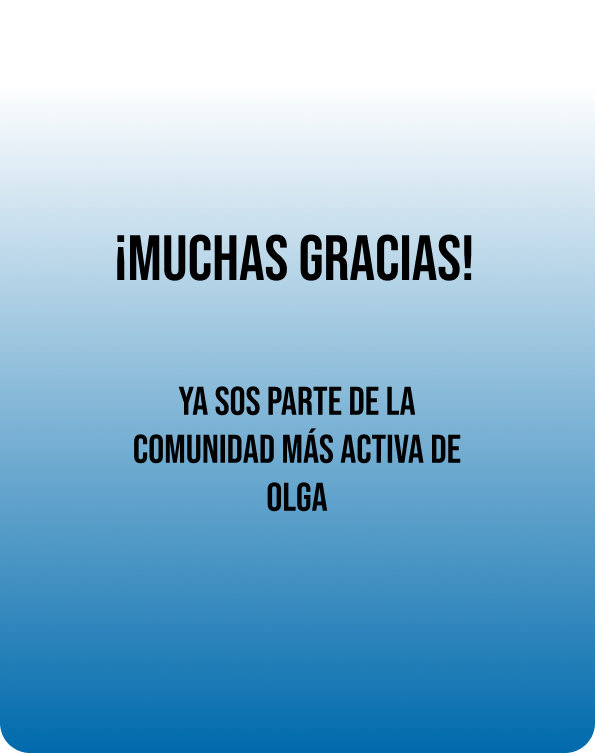
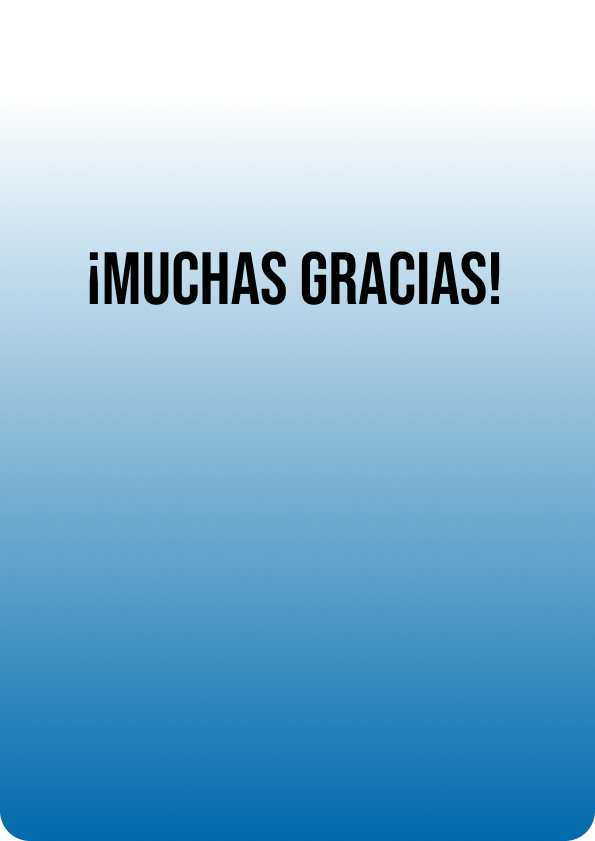
Add files via upload

diff --git a/estilos.css b/estilos.css
@@ -114,18 +114,18 @@ h3 {
         max-width: 100%;
   }
   h1 {
-    font-size: 36px;
-    margin-bottom: 30px;
+        font-size: 36px;
+        margin-bottom: 30px;
   }
   .pprin {
-    font-size: 18px;
-    margin-bottom: 30px;
-    padding: 0 10px;
+        font-size: 18px;
+        margin-bottom: 30px;
+        padding: 0 10px;
   }
   .boton {
-    font-size: 27px;
-    padding: 10px 30px;
-    margin-bottom: 40px;
+        font-size: 27px;
+        padding: 10px 30px;
+        margin-bottom: 40px;
   }
 }
 .contenido-inedito {
@@ -153,7 +153,6 @@ h3 {
         text-align: center;
         gap: 35px;
         margin-top: 150px;
-        margin-bottom: -200px;
     }
     .item-compu {
         margin-left: 25px;
@@ -221,16 +220,16 @@ h3 {
     height: 15px;
     opacity: 0.75;
     margin-top: 15px;
-    background-color: #ccc;
+    background-color: #D9D9D9;
     transition: opacity ease 250ms;
     border-radius: 50%;
     cursor: pointer;
 }
 .dot-especial:hover {
-    background-color: #333;
+    background-color: #777777;
 }
 .dot-especial.active {
-    background-color: #333;
+    background-color: #777777;
 }
 @media screen and (max-width: 768px) {
     .especiales-olga {
@@ -299,12 +298,18 @@ h3 {
 .card-img {
     width: 100%;
     max-width: 700px;
-    height: auto;
     flex: 0 0 auto;
     margin: 0 auto;
     border-radius: 20px;
     scroll-snap-align: center;
+    display: flex;
+    justify-content: center;
+}
+.card-img-img {
+    width: 100%;
+    height: auto;
     object-fit: cover;
+    border-radius: 20px;
 }
 .indigo {
     display: flex;
@@ -315,22 +320,25 @@ h3 {
 .doti {
     width: 38px;
     height: 10px;
-    background-color: #ccc;
+    background-color: #D9D9D9;
     border-radius: 20%;
     cursor: pointer;
 }
 .doti.active {
-    background-color: #333;
+    background-color: #777777;
 }
 .doti:hover {
-    background-color: #333;
+    background-color: #777777;
 }
 @media screen and (max-width: 768px) {
+    .enterate h1 {
+        text-align: center;
+        font-size: 32px;
+    }
     .cardslide {
-        scale: 130%;
+        scale: 110%;
         max-width: 100%;
         padding: 0 10px;
-        margin-bottom: -400px;
     }
     .card-track {
         padding: 20px 0;
@@ -340,6 +348,14 @@ h3 {
         flex: 0 0 90%;
         max-width: 90%;
         margin: 0 auto;
+        display: flex;
+        justify-content: center;
+    }
+    .card-img-img {
+        width: 100%;
+        height: auto;
+        object-fit: cover;
+        border-radius: 20px;
     }
     .enterate h1 {
         text-align: center;
@@ -347,7 +363,7 @@ h3 {
     }
     .indigo {
         margin-top: 20px;
-        scale: 70%;
+        scale: 80%;
     }
 }
 .finalpage {
@@ -361,7 +377,7 @@ h3 {
 }
 @media screen and (max-width: 768px) {
     .finalpage {
-        margin-top: -200px;        
+        margin-top: -50px;        
     }
     .finalpage h1 {
         font-size: 48px;
@@ -398,7 +414,35 @@ h3 {
     margin-top: 35px;
 }
 @media screen and (max-width: 768px) {
-
+    .footer {
+        display: grid;
+        grid-template-areas: 
+        "footcolpreg . footcolleg" "footcolred . .";
+        background-color: #006AAC;
+        padding: 10px 10px;
+        color: rgb(255, 255, 255);
+        align-items: start;
+        text-align: center;
+    }
+    .footcolleg {
+        grid-area: footcolleg;
+        text-align: right;
+    }
+    .footcolleg p {
+        margin: 2px 0;
+        font-size: 12px;
+    }
+    .footcolpreg {
+        grid-area: footcolpreg;
+        text-align: left;
+        margin-left: 0px;
+    }
+    .footcolred {
+        grid-area: footcolred;
+        display: flex;
+        justify-content: center;
+        margin-left: 0px;
+    }
 }
 #modal::backdrop {
   background-color: rgba(0, 0, 0, 0.70);
@@ -455,13 +499,13 @@ h3 {
     scale: 80%;
 }
 .cerrar-modal {
-  position: absolute;
-  top: 10px;
-  right: 15px;
-  background: none;
-  border: none;
-  font-size: 20px;
-  cursor: pointer;
+    position: absolute;
+    top: 10px;
+    right: 15px;
+    background: none;
+    border: none;
+    font-size: 20px;
+    cursor: pointer;
 }
 #pantalla-gracias {
     position: absolute;
@@ -474,6 +518,12 @@ h3 {
     background-position: center;
     border-radius: 30px;
     z-index: 2;
+}
+#pantalla-gracias h2 {
+    position: absolute;
+    top: 340px;
+    right: 50px;
+    text-align: center;
 }
 #btn-cerrar-modal {
     z-index: 3;
@@ -530,6 +580,12 @@ h3 {
         font-size: medium;
         border-radius: 16px;
         border: 1px solid #ccc;
+    }
+    #pantalla-gracias h2 {
+        position: absolute;
+        top: 260px;
+        right: 10px;
+        text-align: center;
     }
     .cerrar-modal {
         position: absolute;

diff --git a/index.html b/index.html
@@ -17,7 +17,7 @@
                 <br>
                 <br>
                 <p class="pprin">Suscribite y accedé antes que nadie a los Especiales OLGA. Sé parte de la comunidad más activa.</p>
-                <a href="#" class="boton" id="btn-abrir-modal">QUIERO SER PARTE</a>
+                <a href="#" class="boton btn-abrir-modal">QUIERO SER PARTE</a>
             </div>
         </header>
         <section class="contenido-inedito">
@@ -31,9 +31,18 @@
             <h1>ENTERATE PRIMERO:</h1>
             <div class="cardslide">
                 <div class="card-track">
-                        <img src="./Imagenes/bullet2.png" alt="bullet2" class="card-img">
-                        <img src="./Imagenes/bullet1.png" alt="bullet1" class="card-img">
-                        <img src="./Imagenes/bullet3.png" alt="bullet3" class="card-img">
+                    <picture class="card-img">
+                        <source media="(max-width: 768px)" srcset="./Imagenes/bullet2mobile.png">
+                        <img src="./Imagenes/bullet2.png" alt="bullet2" class="card-img-img">
+                    </picture>
+                    <picture class="card-img">
+                        <source media="(max-width: 768px)" srcset="./Imagenes/bullet1mobile.png">
+                        <img src="./Imagenes/bullet1.png" alt="bullet1" class="card-img-img">
+                    </picture>
+                    <picture class="card-img">
+                        <source media="(max-width: 768px)" srcset="./Imagenes/bullet3mobile.png">
+                        <img src="./Imagenes/bullet3.png" alt="bullet3" class="card-img-img">
+                    </picture>
                 </div>
                 <div class="indigo">
                     <span class="doti" data-index="0"></span>
@@ -64,18 +73,18 @@
             <br>
             <br>
             <br>
-            <a href="#" class="boton" id="btn-abrir-modal">QUIERO SER PARTE</a>
+            <a href="#" class="boton btn-abrir-modal">QUIERO SER PARTE</a>
         </section>
         <footer class="footer">
             <div class="footcolpreg">
                 <img src="./Imagenes/logofooter.png" alt="logofooter">
             </div>
             <div class="footcolleg">
-                <h3>Legal</h3>
+                <h3>CREDITOS</h3>
                 <ul>
-                    <p>Politicas y privacidad</p>
-                    <p>Cookies</p>
-                    <p>Terminos de servicio</p>
+                    <p>Diseñadores e Implementadores</p>
+                    <p>Alexia Roberts</p>
+                    <p>Agustin Tabbita</p>
                 </ul>
             </div>
             <div class="footcolred">
@@ -94,7 +103,9 @@
                 <h2 for="preferencias">Programas de tu preferencia</h2>
                 <input type="text" id="preferencias">
                 <button type="submit" class="boton">QUIERO SER PARTE</button>
-                <div id="pantalla-gracias" class="oculto"></div>
+                <div id="pantalla-gracias" class="oculto">
+                    <h2>Bienvenidx <span id="nombre-usuario"></span>, ya sos parte de la comunidad más activa de olga</h2>
+                </div>
             </form>
         </dialog>
         <script src="./script.js"></script>

diff --git a/script.js b/script.js
@@ -17,7 +17,22 @@ dots.forEach((dot, i) => {
 window.addEventListener('load', () => {
     scrollToIndex(1);
 });
-
+track.addEventListener('scroll', () => {
+    const scrollLeft = track.scrollLeft;
+    let closestIndex = 0;
+    let closestDistance = Infinity;
+    cards.forEach((card, index) => {
+        const cardCenter = card.offsetLeft + card.offsetWidth / 2;
+        const trackCenter = scrollLeft + track.offsetWidth / 2;
+        const distance = Math.abs(trackCenter - cardCenter);
+        if (distance < closestDistance) {
+            closestDistance = distance;
+            closestIndex = index;
+        }
+    });
+    dots.forEach(d => d.classList.remove('active'));
+    dots[closestIndex].classList.add('active');
+});
 const carrusel = document.querySelector('.carrusel');
 const especiales = document.querySelectorAll('.especial-img');
 const dotsEspecial = document.querySelectorAll('.dot-especial');
@@ -28,31 +43,59 @@ function scrollToEspecial(index) {
         left: scrollLeft,
         behavior: 'smooth'
     });
+    updateDots(index);
+}
+function updateDots(index) {
     dotsEspecial.forEach(d => d.classList.remove('active'));
-    dotsEspecial[index].classList.add('active');
+    if (dotsEspecial[index]) {
+        dotsEspecial[index].classList.add('active');
+    }
 }
 dotsEspecial.forEach((dot, i) => {
     dot.addEventListener('click', () => scrollToEspecial(i));
 });
+carrusel.addEventListener('scroll', () => {
+    let closestIndex = 0;
+    let closestDistance = Infinity;
+    const carruselCenter = carrusel.scrollLeft + carrusel.offsetWidth / 2;
+    especiales.forEach((img, i) => {
+        const imgCenter = img.offsetLeft + img.offsetWidth / 2;
+        const distance = Math.abs(carruselCenter - imgCenter);
+        if (distance < closestDistance) {
+            closestDistance = distance;
+            closestIndex = i;
+        }
+    });
+    updateDots(closestIndex);
+});
 
-
-
-const btnAbrirModal = document.querySelector("#btn-abrir-modal");
+const btnsAbrirModal = document.querySelectorAll(".btn-abrir-modal");
 const btnCerrarModal = document.querySelector("#btn-cerrar-modal");
 const modal = document.querySelector("#modal");
 const formulario = document.getElementById("formulario-modal");
 const pantallaGracias = document.getElementById("pantalla-gracias");
-btnAbrirModal.addEventListener("click", () => {
-  modal.showModal();
-  mensajeGracias.classList.add("oculto"); // 
+btnsAbrirModal.forEach(btn => {
+  btn.addEventListener("click", (e) => {
+    e.preventDefault();
+    modal.showModal();
+    pantallaGracias.classList.add("oculto");
+  });
 });
 btnCerrarModal.addEventListener("click", () => {
   modal.close();
 });
 formulario.addEventListener("submit", function (e) {
   e.preventDefault();
+  const nombre = document.getElementById("nombre").value.trim();
+  const nombreUsuarioSpan = document.getElementById("nombre-usuario");
+  if (nombre !== "") {
+    nombreUsuarioSpan.textContent = nombre;
+  } else {
+    nombreUsuarioSpan.textContent = "usuario";
+  }
   pantallaGracias.classList.remove("oculto");
 });
+
 
 
 
